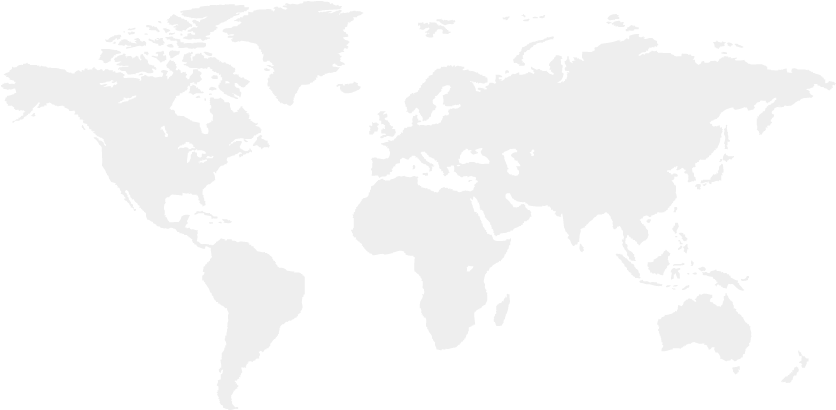
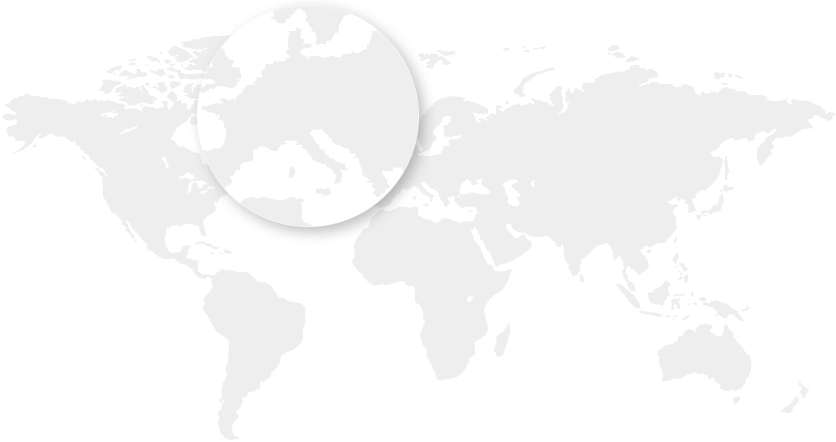
update statistics map

diff --git a/db/migrate/20121214102228_update_countries_coords.rb b/db/migrate/20121214102228_update_countries_coords.rb
@@ -1,0 +1,31 @@
+# encoding: utf-8
+
+class UpdateCountriesCoords < ActiveRecord::Migration
+  def up
+    Location.where{x != nil}.find_each do |location|
+      location.y += 30
+      location.save!
+    end
+
+    coords = {
+      "Соединенное Королевство" => [220, 65],
+      "Германия"                => [297, 80],
+      "Джерси"                  => [218, 100],
+      "Франция"                 => [246, 119],
+      "Нидерланды"              => [265, 80],
+      "Люксембург"              => [270, 95],
+      "Швейцария"               => [285, 122],
+    }
+
+    coords.each do |name, coords|
+      location   = Location.find_by_name!(name)
+      location.x = coords[0]
+      location.y = coords[1]
+      location.save!
+    end
+  end
+
+  def down
+    raise "Can't rollback this migration"
+  end
+end

diff --git a/db/schema.rb b/db/schema.rb
@@ -11,7 +11,7 @@
 #
 # It's strongly recommended to check this file into your version control system.
 
-ActiveRecord::Schema.define(:version => 20121214092041) do
+ActiveRecord::Schema.define(:version => 20121214102228) do
 
   create_table "companies", :force => true do |t|
     t.string   "name"
